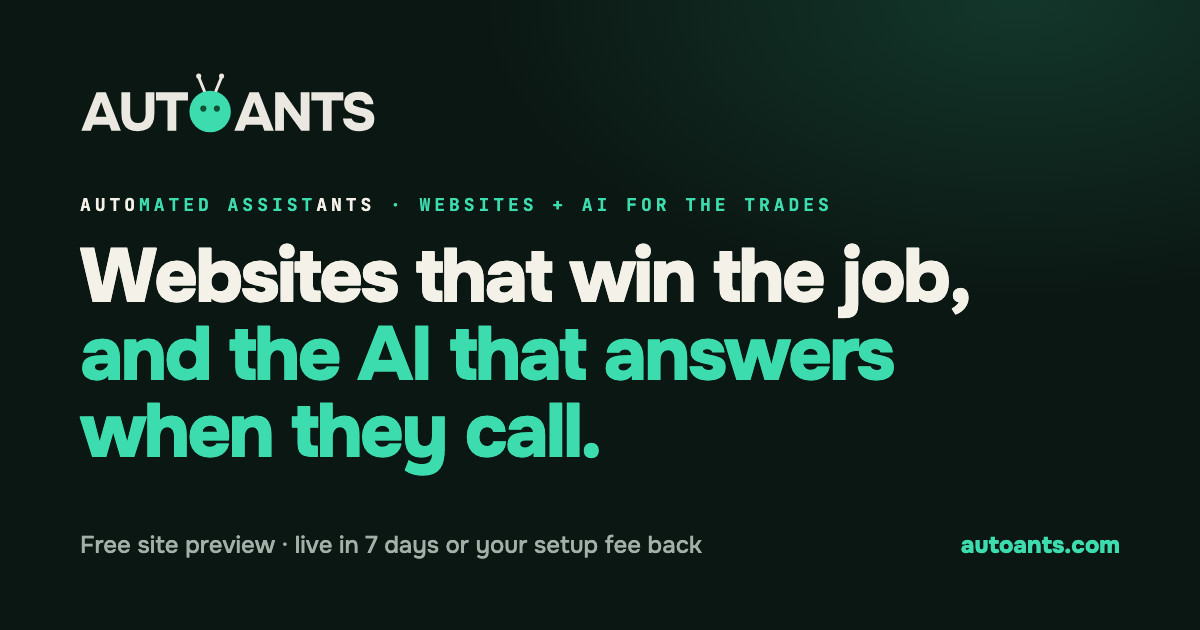
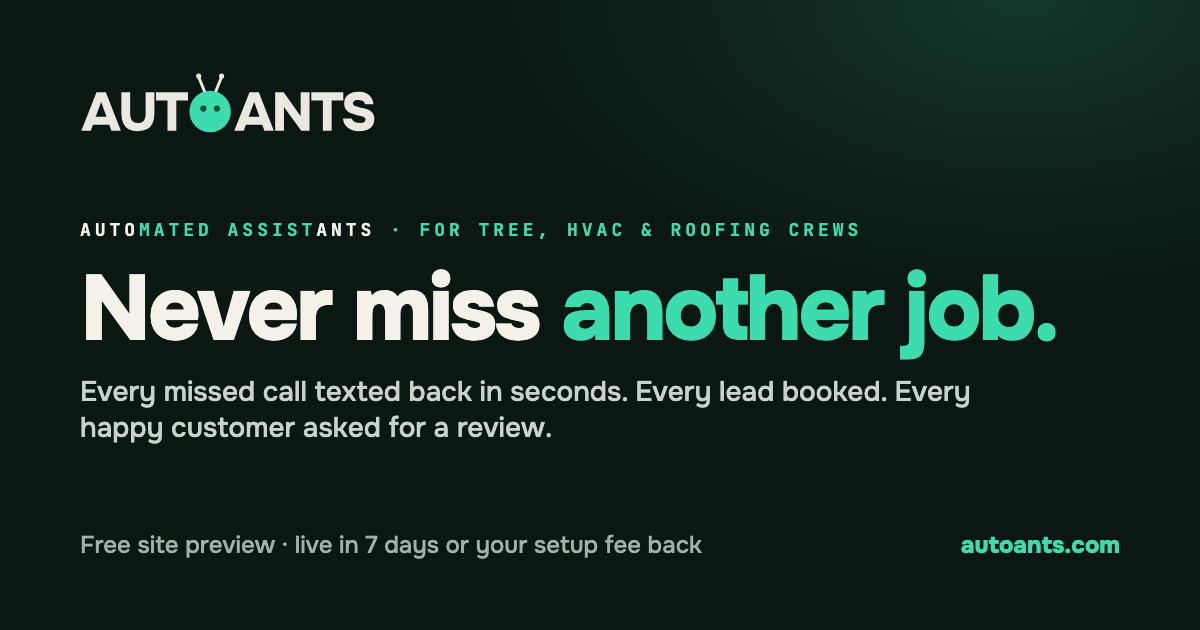
copy: outcome-first hero per Ganim ("Never miss another job."), AI moved below the fold
Ganim notebook (cited): no "AI"/"automation" in first-touch copy to contractors; lead
with outcomes; AI is fine after engagement. Kept: automated-assistants name story, honest AI
disclosure in the Receptionist card, build demo label, founder line and FAQ.

Changed region(s): [[0.0617, 0.3016, 0.8942, 0.754]]

diff --git a/index.html b/index.html
@@ -3,9 +3,9 @@
 <head>
 <meta charset="UTF-8">
 <meta name="viewport" content="width=device-width, initial-scale=1.0">
-<meta name="description" content="AutoAnts (short for automated assistants) builds websites that win the job for tree, HVAC and roofing crews, then puts AI agents to work on them: missed calls texted back, quotes followed up, reviews asked for, and you found on Google and in AI answers. Free site preview; live in 7 days or your setup fee back. A Blundell Core Holdings company.">
-<meta property="og:title" content="AutoAnts — websites that win the job, and the AI that answers when they call">
-<meta property="og:description" content="Websites for the trades, plus the AI agents that answer, follow up and ask for reviews. Free site preview. Live in 7 days or your setup fee back.">
+<meta name="description" content="AutoAnts (short for automated assistants) helps tree, HVAC and roofing crews never miss a job: every missed call texted back in seconds, every lead followed up and booked, every happy customer asked for a review, and a website that wins the work. Free site preview; live in 7 days or your setup fee back.">
+<meta property="og:title" content="AutoAnts — never miss another job">
+<meta property="og:description" content="Every missed call texted back in seconds, every lead booked, every happy customer asked for a review. For tree, HVAC and roofing crews. Free site preview; live in 7 days or your setup fee back.">
 <meta property="og:url" content="https://autoants.com/">
 <meta property="og:type" content="website">
 <meta property="og:image" content="https://autoants.com/brand/og.png">
@@ -238,9 +238,9 @@
 
 <header id="top"><div class="wrap"><div class="hero-grid">
   <div>
-    <p class="eyebrow"><span style="color:var(--ink)">Auto</span>mated assist<span style="color:var(--ink)">ants</span> · websites + AI for the trades</p>
-    <h1>Websites that win the job, <span class="amb">and the AI that answers when they call.</span></h1>
-    <p class="lede">AutoAnts builds your website first, then puts AI to work on it: <b>missed calls texted back in seconds</b>, quotes followed up, reviews asked for, and you found on Google and in ChatGPT. For tree, HVAC &amp; roofing crews.</p>
+    <p class="eyebrow"><span style="color:var(--ink)">Auto</span>mated assist<span style="color:var(--ink)">ants</span> · for tree, HVAC &amp; roofing crews</p>
+    <h1>Never miss <span class="amb">another job.</span></h1>
+    <p class="lede"><b>Every missed call texted back in seconds.</b> Every lead followed up and booked. Every happy customer asked for a review. And a website that wins the work, built before you pay a dime. All while you're on the job.</p>
     <div class="cta-row">
       <a class="btn btn-amber" href="#contact" data-interest="Free site preview">Get your free site preview →</a>
       <a class="btn btn-ghost" href="#contact" data-interest="15-minute call" data-call>Book a 15-minute call</a>
@@ -281,7 +281,7 @@
 </div></section>
 
 <section id="stack"><div class="wrap">
-  <div class="sec-head"><p class="eyebrow">What you get · your automated assistants</p><h2>One crew. It works while you work.</h2><p>That's where the name comes from: <b style="color:var(--ink)">Auto</b>mated assist<b style="color:var(--ink)">Ants</b>. A crew of AI assistants that never sleep, each with one job, handling the office so you stay on the job.</p></div>
+  <div class="sec-head"><p class="eyebrow">What you get · your automated assistants</p><h2>One crew. It works while you work.</h2><p>That's where the name comes from: <b style="color:var(--ink)">Auto</b>mated assist<b style="color:var(--ink)">Ants</b>. A crew of assistants that never sleep, each with one job, handling the office so you stay on the job.</p></div>
   <div class="stack">
     <div class="scard"><span class="free">FREE</span><div class="tag">Get found</div><h3>Your website</h3><p>A real, fast, mobile site with your reviews and a quote form — built <em>before</em> you pay. Yours to keep either way.</p></div>
     <div class="scard"><div class="who"><svg class="ant"><use href="#ant"/></svg><div class="tag">Never lose a call</div></div><h3>The Callback</h3><div class="role">Missed-call text-back</div><p>Miss a call, and it instantly texts them: "Sorry I missed you — what do you need?" The job stays yours.</p></div>
@@ -352,7 +352,7 @@
       <div class="wrow"><div class="dot"></div><div><h4>An attorney's eye for what's true</h4><p>I'm a licensed Louisiana attorney. I only put claims on your site I can stand behind — no fake reviews, no made-up credentials. That protects you, and customers can tell.</p></div></div>
       <div class="wrow"><div class="dot"></div><div><h4>Local, not a call center</h4><p>Louisiana-built and Louisiana-run. I know storm season, I know your customers, and you talk to a person — me.</p></div></div>
       <div class="wrow"><div class="dot"></div><div><h4>Done-for-you, not another login</h4><p>You didn't get into trees to manage software. I run the whole system; you get the jobs.</p></div></div>
-      <div class="wrow"><div class="dot"></div><div><h4>The AI stack the big firms use</h4><p>The same modern AI the national brands pay agencies thousands for — pointed at one thing: putting money in your pocket.</p></div></div>
+      <div class="wrow"><div class="dot"></div><div><h4>Big-company tools, small-shop price</h4><p>The same modern AI the national brands pay agencies thousands for — pointed at one thing: putting money in your pocket.</p></div></div>
       <div class="wrow"><div class="dot"></div><div><h4>Honest about what to automate</h4><p>Sometimes the answer is "don't." If a tool won't earn its keep, I'll say so. That's how you know the next thing I recommend is real.</p></div></div>
     </div>
     </div>

diff --git a/brand/og-card.html b/brand/og-card.html
@@ -4,7 +4,7 @@
 h1{font-size:76px;font-weight:800;letter-spacing:-.035em;line-height:1.02;margin:0;max-width:1000px}h1 span{color:#3ddcae}
 .f{display:flex;justify-content:space-between;align-items:flex-end}.f p{margin:0;font-size:24px;color:#a3b0a8}</style></head><body>
 <img src="autoants-logo-reverse.svg" style="height:64px;width:auto;align-self:flex-start">
-<div><div class="k"><b>Auto</b>mated assist<b>ants</b> · websites + AI for the trades</div>
-<h1 style="margin-top:22px">Websites that win the job, <span>and the AI that answers when they call.</span></h1></div>
+<div><div class="k"><b>Auto</b>mated assist<b>ants</b> · for tree, HVAC &amp; roofing crews</div>
+<h1 style="margin-top:22px;font-size:92px;white-space:nowrap">Never miss <span>another job.</span></h1><p style="font-size:28px;color:#c9d3cc;margin:18px 0 0;max-width:980px">Every missed call texted back in seconds. Every lead booked. Every happy customer asked for a review.</p></div>
 <div class="f"><p>Free site preview · live in 7 days or your setup fee back</p><p style="color:#3ddcae;font-weight:800">autoants.com</p></div>
 </body></html>

diff --git a/services.html b/services.html
@@ -3,7 +3,7 @@
 <head>
 <meta charset="utf-8">
 <meta name="viewport" content="width=device-width, initial-scale=1">
-<title>Services — AutoAnts | AI that puts money in your pocket</title>
+<title>Services — AutoAnts | More booked jobs, fewer missed calls</title>
 <meta name="description" content="Everything AutoAnts does for local trades — websites, 24/7 call capture, quotes, follow-up, reviews, and back-office automation. Built to make you money, not just save you time.">
 <meta name="theme-color" content="#0b1712">
 <link rel="icon" href="brand/favicon.svg" type="image/svg+xml">
